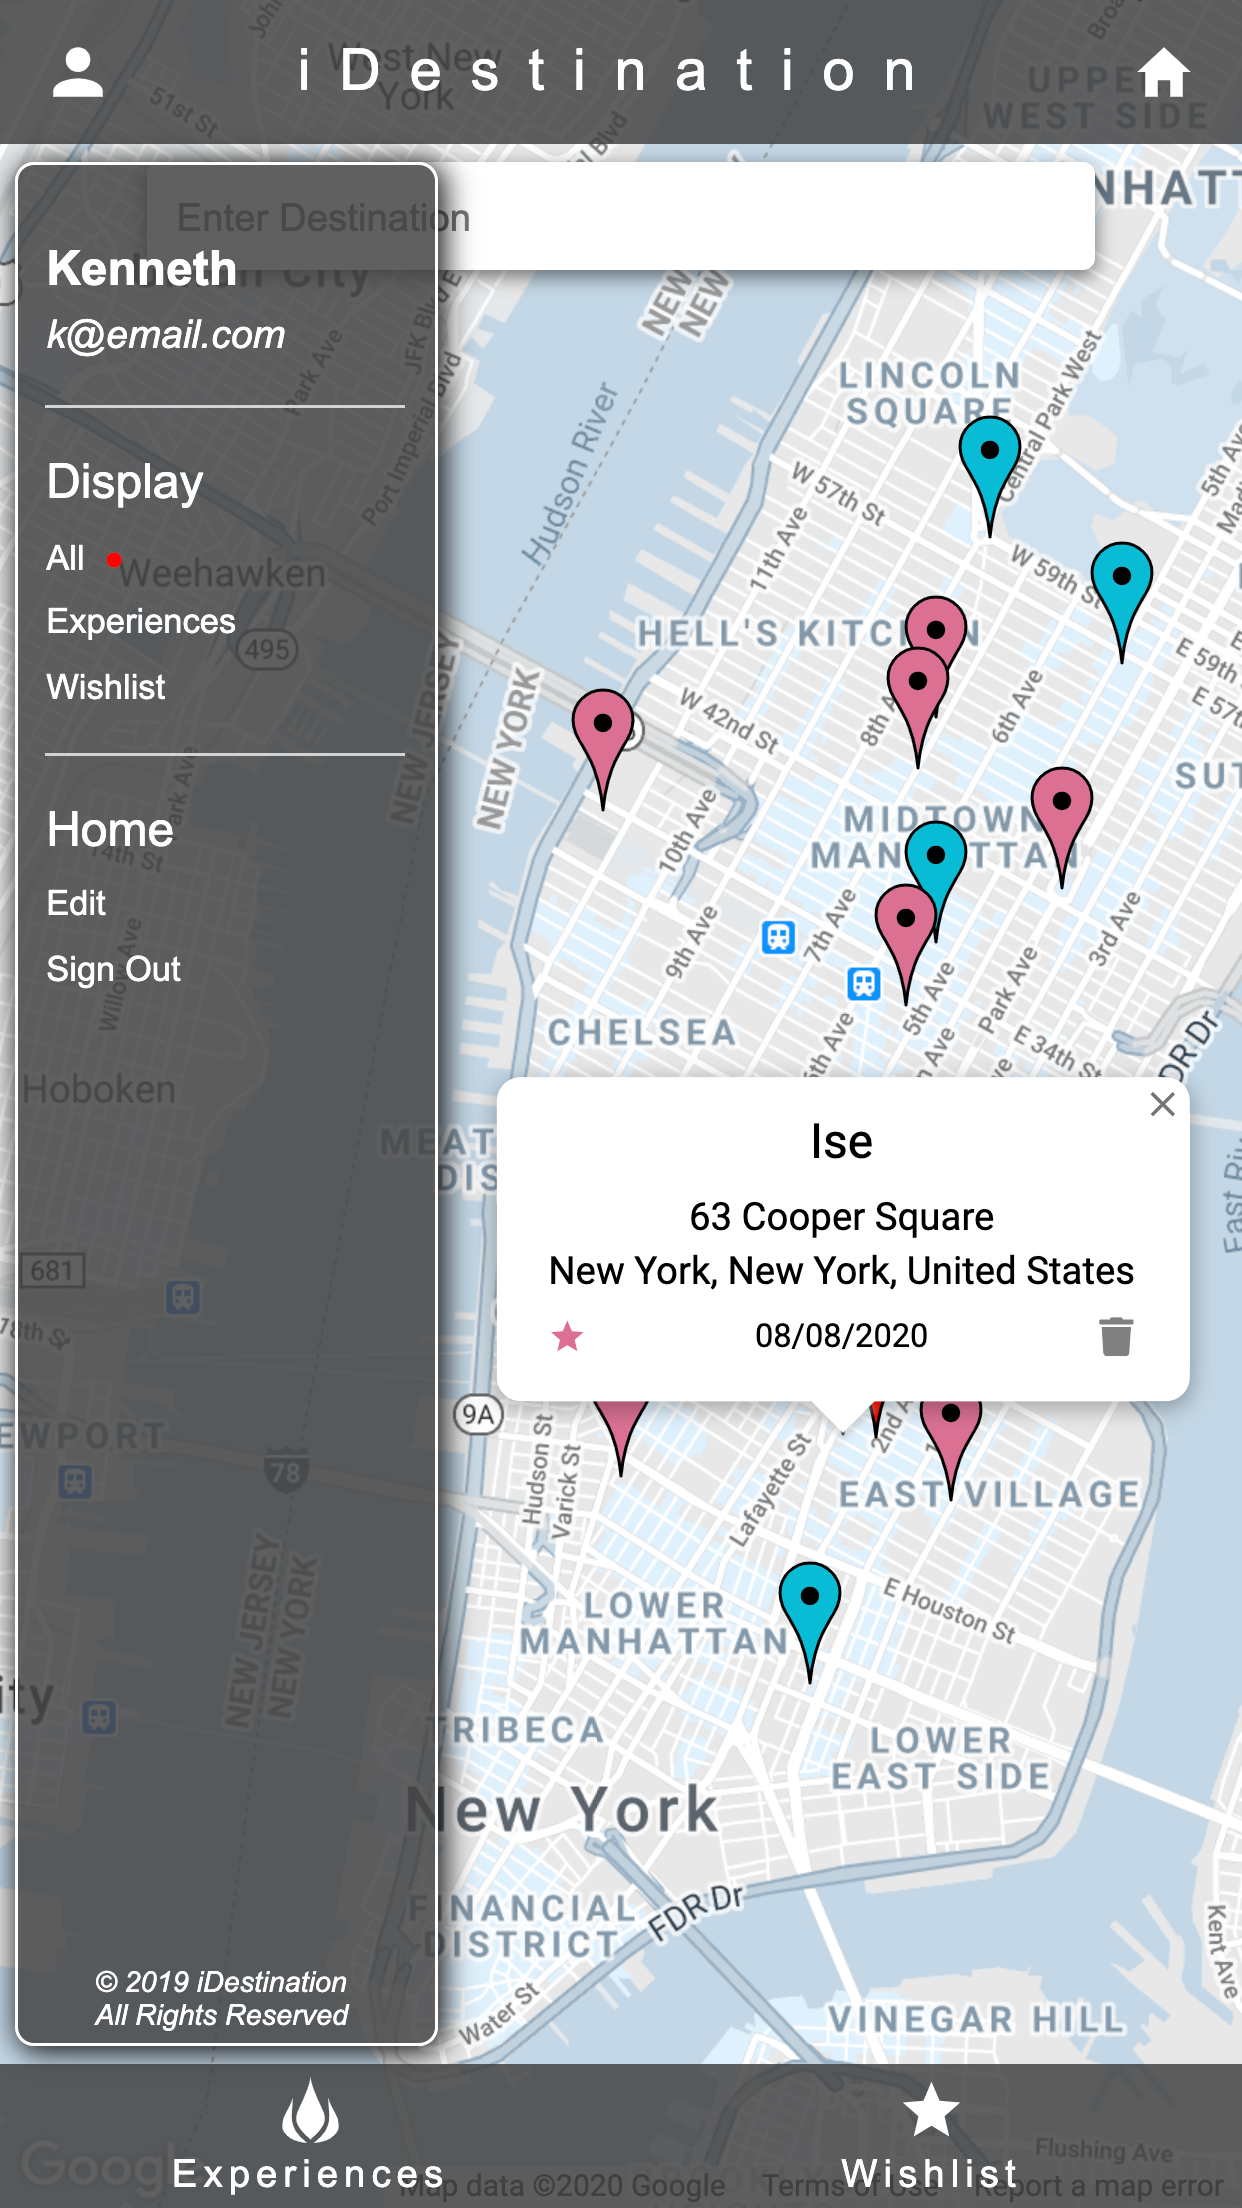
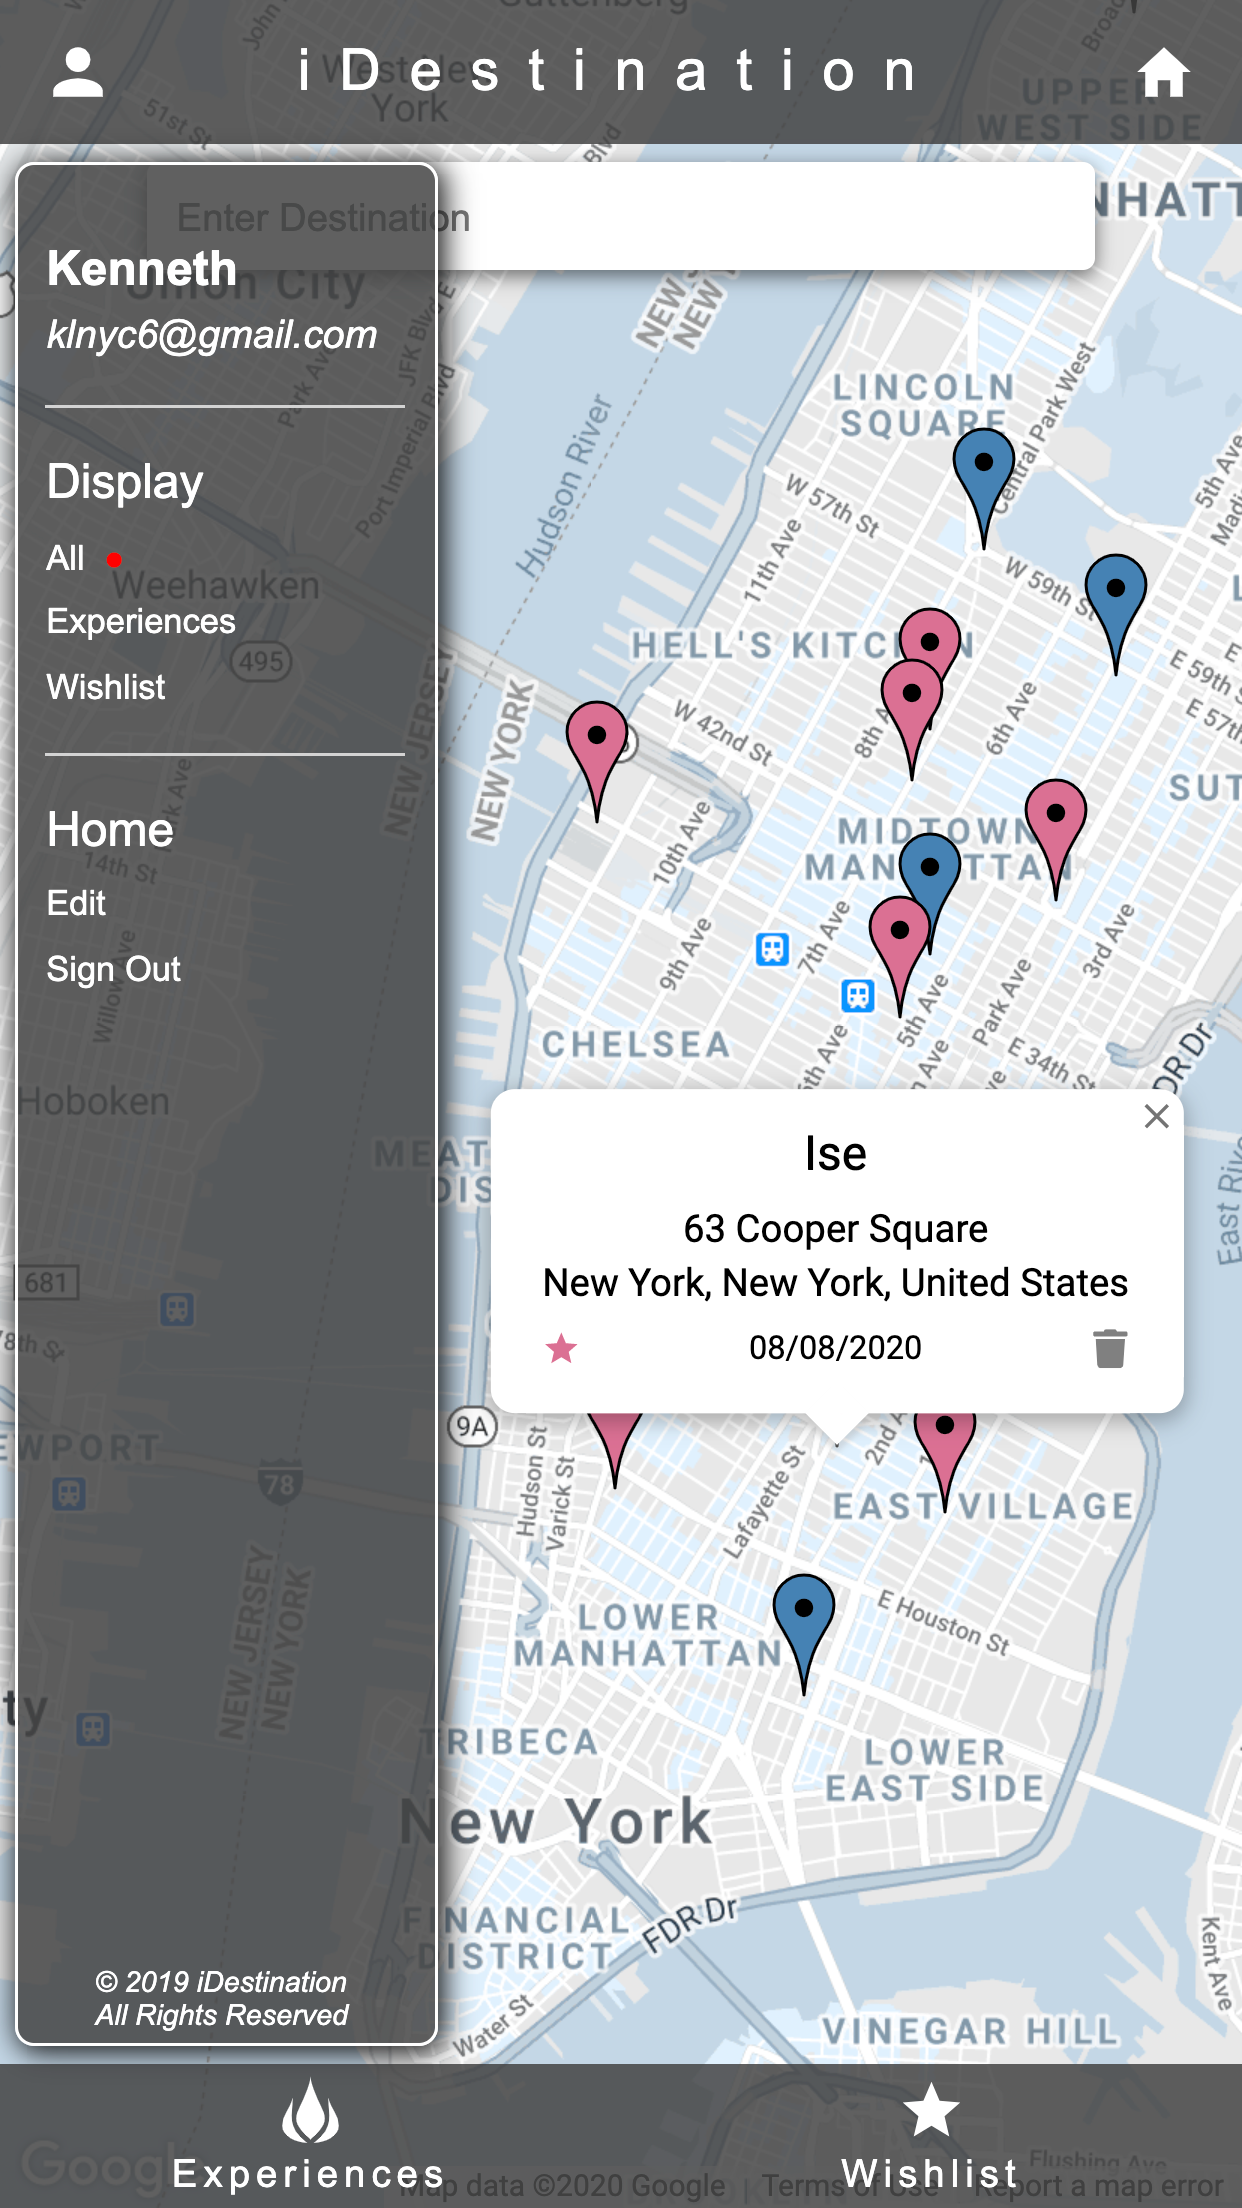
spacing in 2nd page done

diff --git a/client/components/Home.js b/client/components/Home.js
@@ -10,22 +10,30 @@ class Home extends React.Component {
                 <div className="home-description">
                     <div className="home-description-content">
                         <div className="home-description-title">Travel journal. Travel planner. All in one.</div>
-                        <div className="home-description-text">
-                            <div className="home-text">Easily view all the places that you've visited in the past</div>
-                            <div className="home-text">and all the places you wish to visit in the future.</div>
-                            <div className="home-text">Keep track of your adventures and plan your next vacation.</div>
+                        <div className="home-description-text-container">
+                            <div className="home-description-text">Easily view all the places that you've visited in the past</div>
+                            <div className="home-description-text">and all the places you wish to visit in the future.</div>
+                            <div className="home-description-text">Keep track of your adventures and plan your next vacation.</div>
                         </div>
                     </div>
                 </div>
                 <div className="home-information">
                     <div className="home-information-content">
-                        <div className="home-information-text">
-                            <div className="home-information-functionality card"></div>
-                            <div className="home-information-instruction card"></div>
+                        <div className="home-information-text-container">
+                            <div className="home-information-section card">
+                                <div className="home-information-title">Features</div>
+                                <div className="home-information-text">• Search for a location and choose to add it as a past experience or to your wishlist</div>
+                                <div className="home-information-text">• Save your home location</div>
+                                <div className="home-information-text">• Filter the map to show only your past experiences or your future destinations</div>
+                            </div>
+                            <div className="home-information-section card">
+                            <div className="home-information-title">How to add the app to your phone</div>
+                                <div className="home-information-text">• Search for a location and choose to add it as a past experience or to your wishlist</div>
+                                <div className="home-information-text">• Save your home location</div>
+                                <div className="home-information-text">• Filter the map to show only your past experiences or your future destinations</div>
+                            </div>
                         </div>
-                        <div className="home-information-map card">
-
-                        </div>
+                        <div className="home-information-map card"><img src="img/screenshot.png"></img></div>
                     </div>
                 </div>
             </div>

diff --git a/public/styles.css b/public/styles.css
@@ -77,11 +77,11 @@ body {
     padding: 1rem;
 }
 
-.home-description-text {
+.home-description-text-container {
     padding: 1rem;
 }
 
-.home-text {
+.home-description-text {
     padding: 0.1rem;
 }
 
@@ -98,21 +98,38 @@ body {
     justify-content: space-around;
 }
 
-.home-information-text {
+.home-information-text-container {
     display: flex;
     flex-direction: column;
     justify-content: space-between;
-    margin: 2rem;
-    width: 26rem;
+    margin: 2rem 0 2rem 2rem;
+    flex: 1.8;
 }
 
-.home-information-functionality, .home-information-instruction {
+.home-information-title {
+    font-weight: bold;
+    text-align: center;
+    border-bottom: 0.06rem solid lightgray;
+    padding-bottom: 0.4rem;
+}
+
+.home-information-text {
+    font-size: 0.8rem;
+    padding-top: 0.6rem;
+}
+
+.home-information-section {
     height: calc(50% - 2.2rem);
 }
 
 .home-information-map {
     margin: 2rem;
-    width: 26rem;
+    flex: 1;
+}
+
+.home-information-map img {
+    height: 100%;
+    width: 100%;
 }
 
 .login {

diff --git a/client/components/Markers.js b/client/components/Markers.js
@@ -46,7 +46,7 @@ class Markers extends React.Component {
                 .map((marker, index) => this.renderMarker(marker, 'palevioletred', index))}
 
                 {currentMarker.position && this.renderMarker(currentMarker, 'red')}
-                {user.home && this.renderMarker(user.home, 'blue')}
+                {user.home && this.renderMarker(user.home, 'silver')}
             </Fragment>
         )
     }
